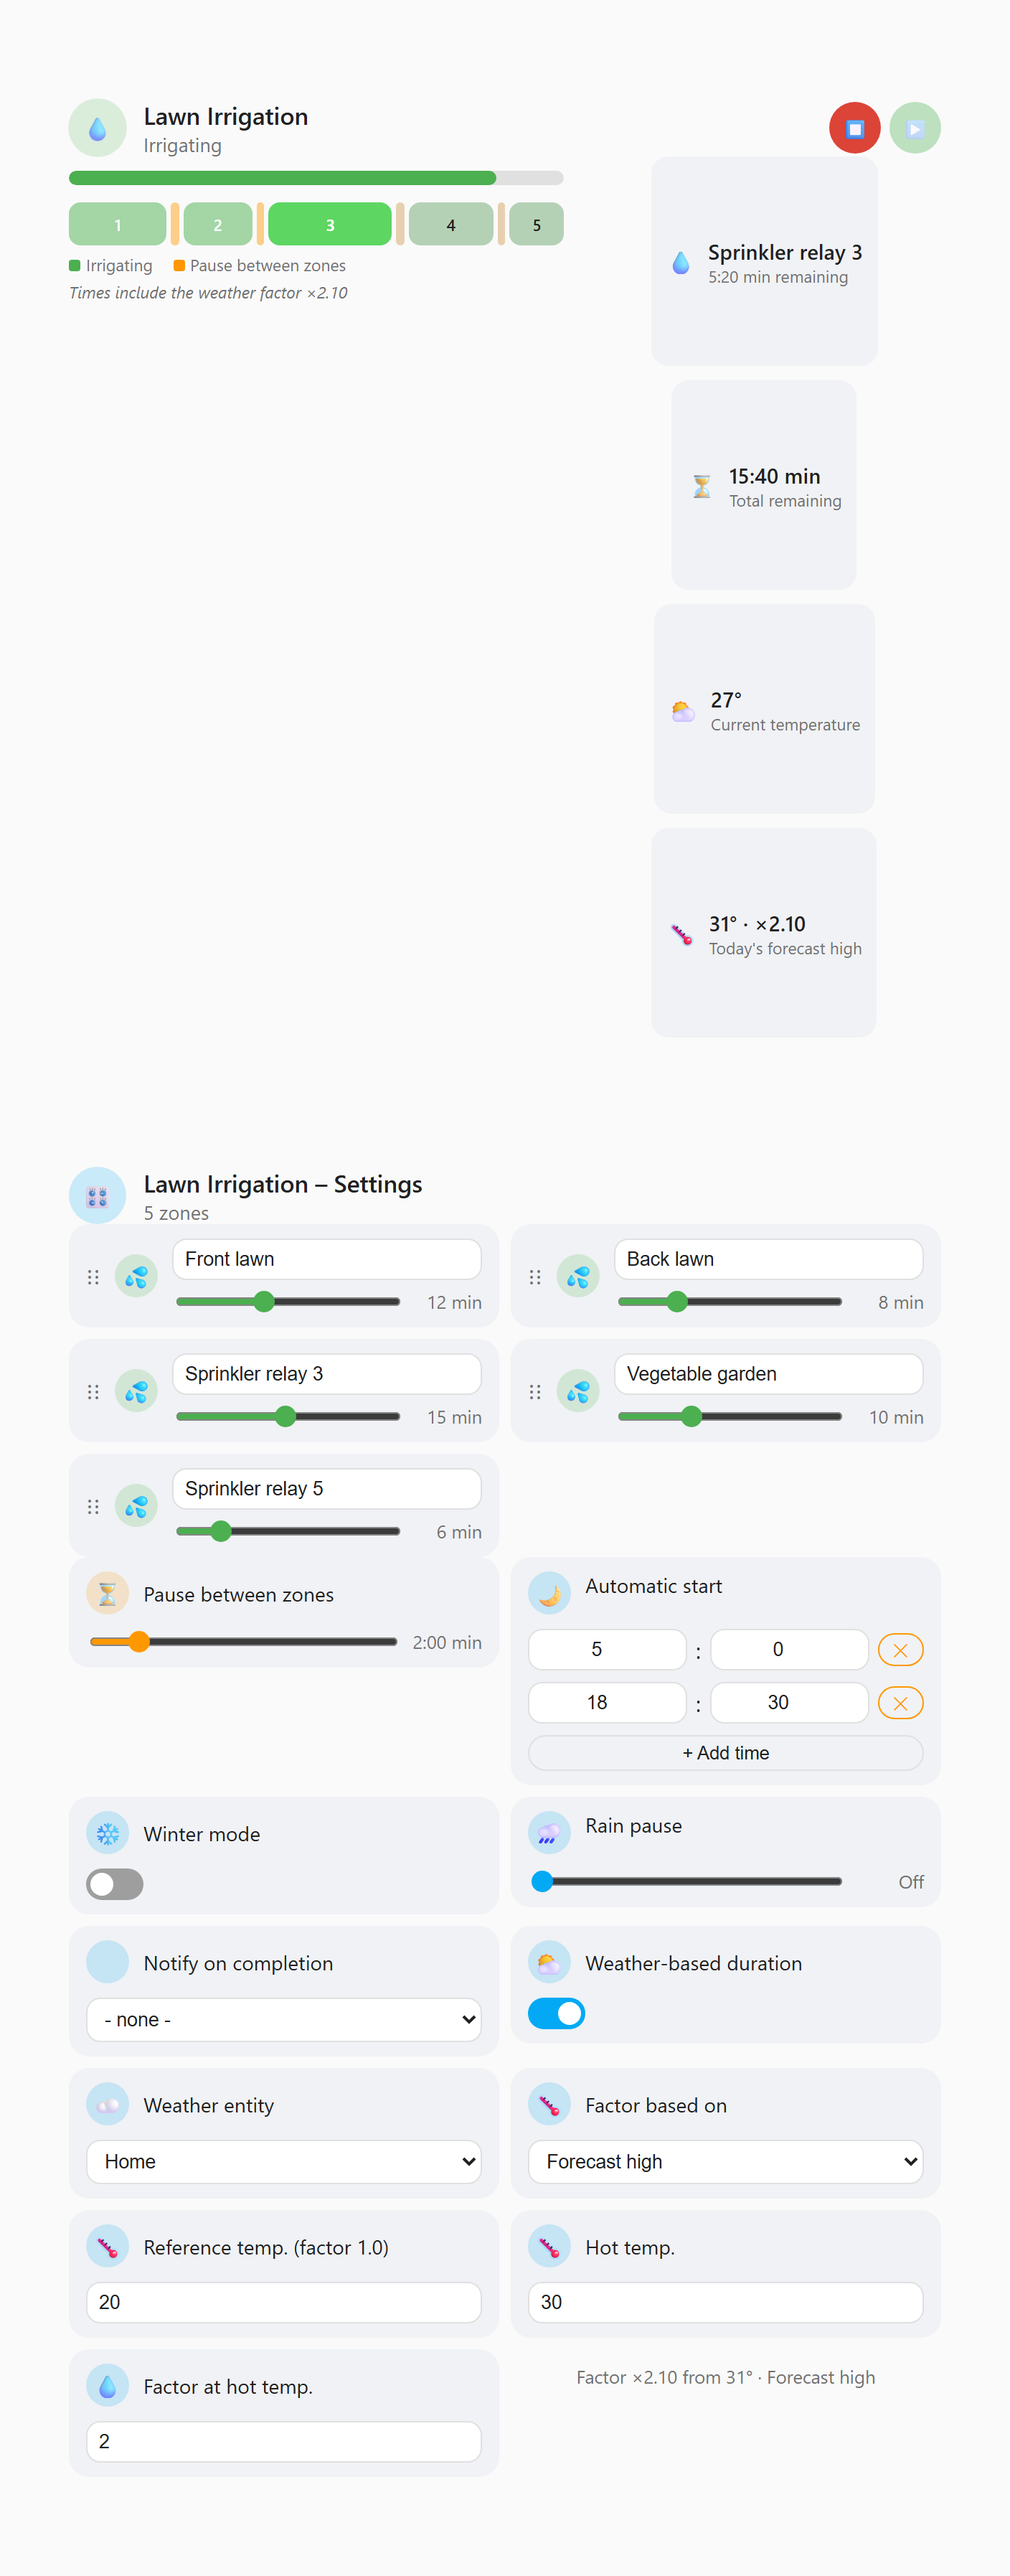
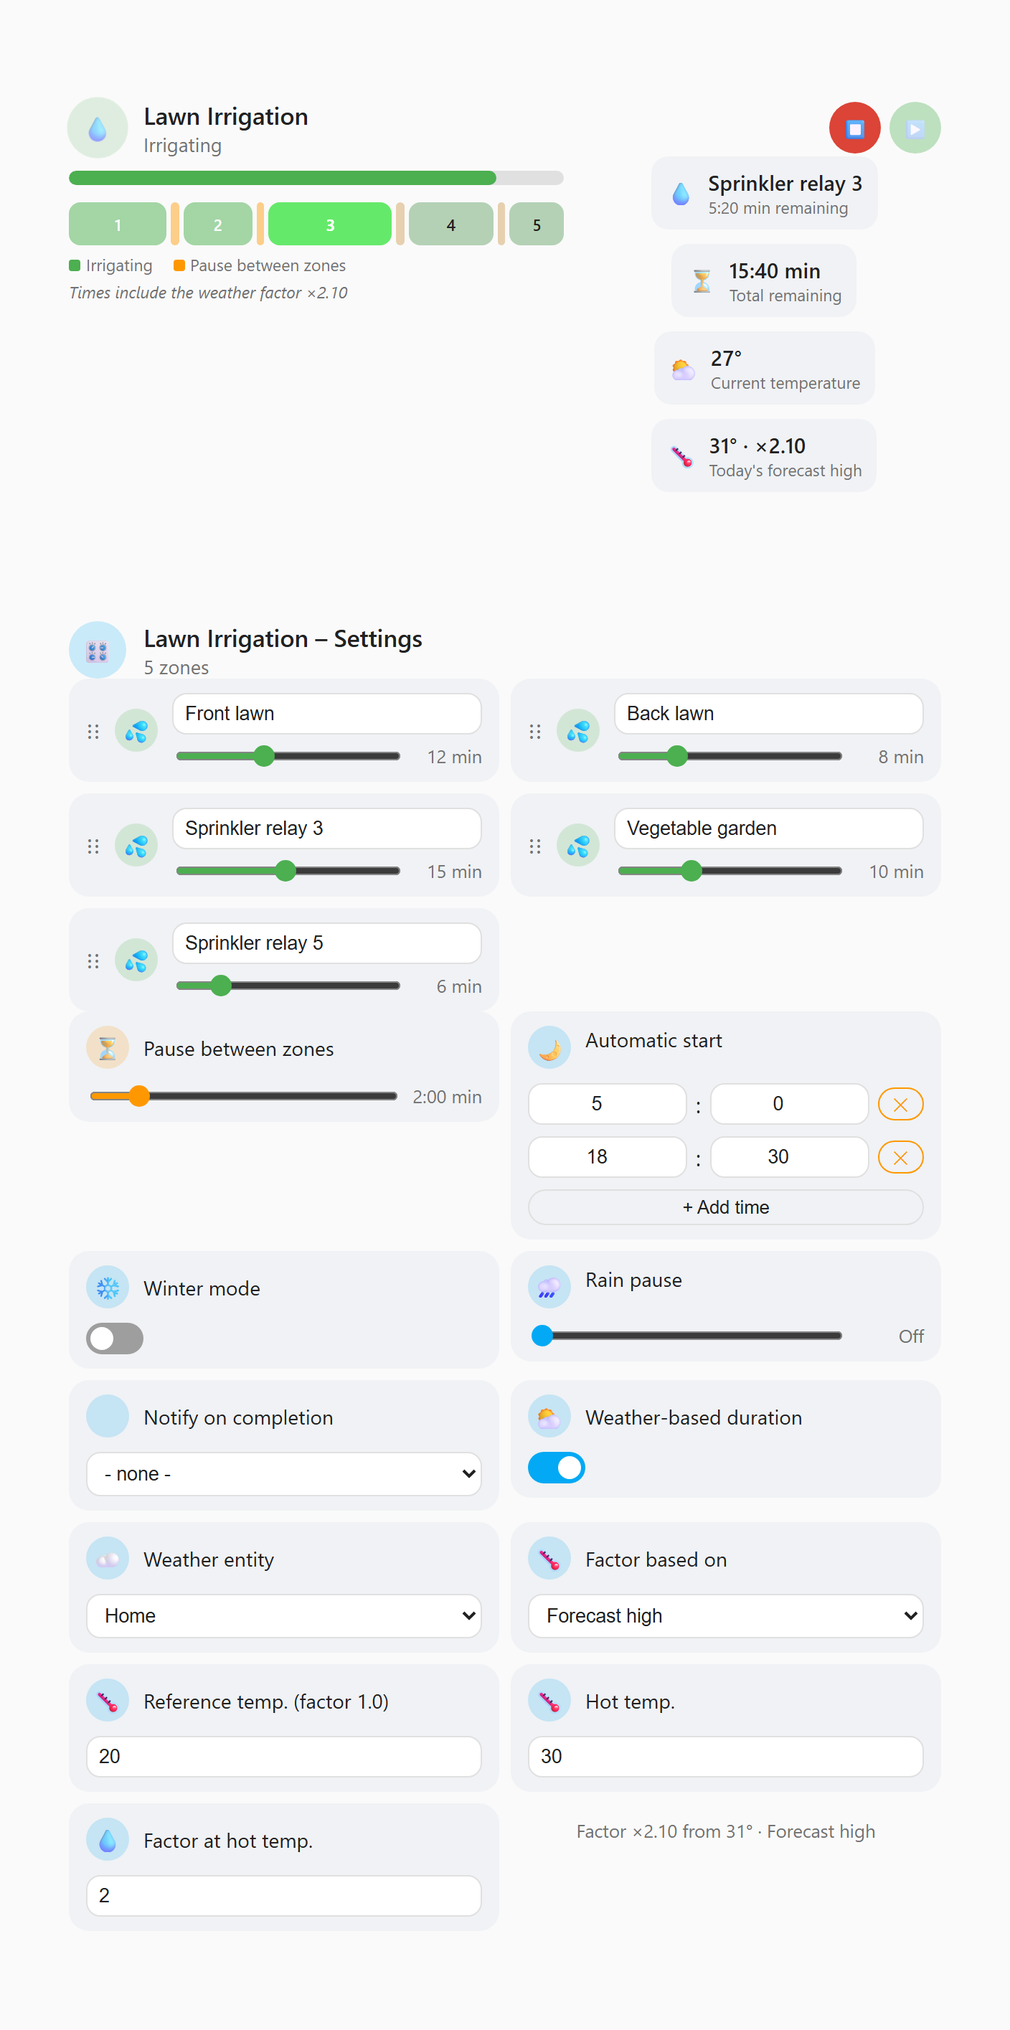
Fix stat tiles stretching with huge gaps in horizontal layout (v1.4.6)
.stat kept its flex: 1 1 130px sizing (meant for the default row
layout) even when .layout-horizontal switches .stat-row to
flex-direction: column. flex-grow: 1 on a column's children makes
each one grow to share the container's available height equally -
with four short stat tiles in a tall card, that meant each one
stretching out with a large empty gap below its content instead of
stacking compactly.

Spotted via a stale-looking screenshot in the README; turned out to
be a real bug in the horizontal layout itself, not just the docs.
Regenerated the horizontal-layout and running-state screenshots via
screenshots/render.py to match (the two "running" ones differ only in
animation-frame noise from the pulsing active-zone segment).

diff --git a/custom_components/irrigation_sequencer/frontend/irrigation-sequencer-card.js b/custom_components/irrigation_sequencer/frontend/irrigation-sequencer-card.js
@@ -22,7 +22,7 @@ const DEFAULT_ZONE_DURATION_MINUTES = 10;
 // browser console, whether an update actually took effect versus just
 // looking "the same" as before. Keep this in step with manifest.json's
 // "version" on every release.
-const CARD_VERSION = "1.4.5";
+const CARD_VERSION = "1.4.6";
 // eslint-disable-next-line no-console
 console.info(
   `%c IRRIGATION-SEQUENCER-CARD %c v${CARD_VERSION} `,
@@ -682,6 +682,7 @@ class IrrigationSequencerBaseCard extends HTMLElement {
       .layout-horizontal .status-columns .timeline-col { flex: 1.4; min-width: 0; }
       .layout-horizontal .status-columns .stats-col { flex: 1; min-width: 0; display: flex; flex-direction: column; gap: 8px; }
       .layout-horizontal .stat-row { flex-direction: column; margin-top: 0; }
+      .layout-horizontal .stat-row .stat { flex: 0 0 auto; }
       .layout-horizontal .zones-grid { display: grid; grid-template-columns: repeat(2, 1fr); gap: 8px; }
       .layout-horizontal .settings-grid { display: grid; grid-template-columns: repeat(2, 1fr); gap: 8px; align-items: start; }
       .layout-horizontal .zones-grid .tile-row,
